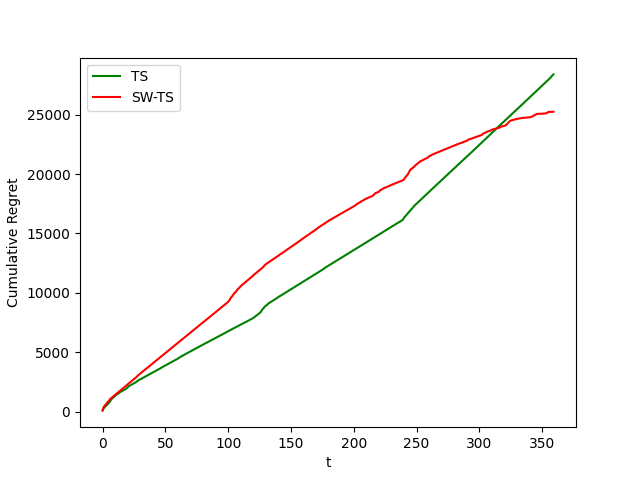
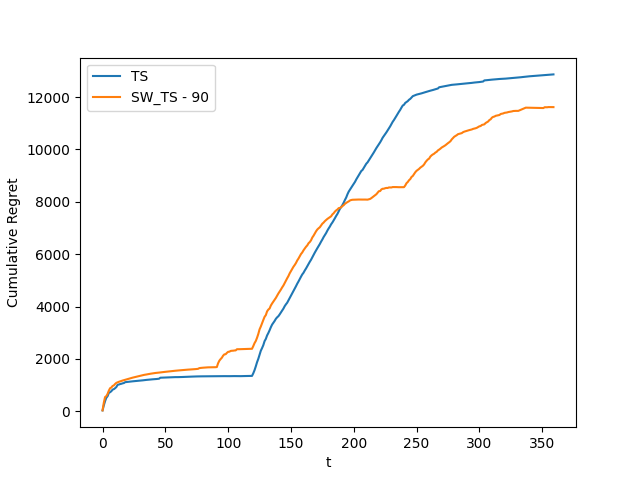
Modified version of assignment 3-4-5

diff --git a/src/assignment_3/assignment_3.py b/src/assignment_3/assignment_3.py
@@ -12,7 +12,8 @@ from src.utils.knapsack import Knapsack
 
 # Parameters initialization
 subcampaign = [0, 1, 2]
-readFile = ['../data/subcampaign1.csv', '../data/subcampaign2.csv', '../data/subcampaign3.csv']
+colors = ["r", "g", "b"]
+readFile = ['../data/subcampaign1-2.csv', '../data/subcampaign2-2.csv', '../data/subcampaign3-2.csv']
 
 # Save array to csv
 # for i in subcampaign:
@@ -35,16 +36,16 @@ for i in subcampaign:
 
 n_arms = len(data[0].columns)
 daily_budget = np.linspace(min_budget, max_budget, n_arms)
-x_values = [np.linspace(min_budget, max_budget, n_arms) for i in range(0, len(subcampaign))]
+x_values = [np.linspace(min_budget, max_budget, n_arms) for s in range(0, len(subcampaign))]
 
 # number of phases
 n_phases = 3
 # Time horizon multiple of the number of phases
 T = n_phases * 120
 # Window size proportional to the square root of T and always integer
-window_size = 100
+window_size = [90]
 # Number of experiments
-n_experiments = 5
+n_experiments = 10
 # The number of the actual abrupt phase
 phase_number = 0
 
@@ -53,20 +54,23 @@ phase_length = [T / 3, T / 3, T / 3]
 # define the budgets
 budget_matrix = [daily_budget for _ in range(0, n_phases)]
 # define 3 non stationary environment, one for each subcampaign
-environment_first_subcampaign = NonStatClickEnv(phase_length, x_values, y_value[0], sigma, budget_matrix, 1, 'r')
-environment_second_subcampaign = NonStatClickEnv(phase_length, x_values, y_value[1], sigma, budget_matrix, 2, 'b')
-environment_third_subcampaign = NonStatClickEnv(phase_length, x_values, y_value[2], sigma, budget_matrix, 3, 'g')
-env = [environment_first_subcampaign, environment_second_subcampaign, environment_third_subcampaign]
+env = []
+for s in subcampaign:
+    env.append(NonStatClickEnv(phase_length, x_values, y_value[s], sigma, budget_matrix, s + 1, colors[s]))
+# environment_first_subcampaign = NonStatClickEnv(phase_length, x_values, y_value[0], sigma, budget_matrix, 1, 'r')
+# environment_second_subcampaign = NonStatClickEnv(phase_length, x_values, y_value[1], sigma, budget_matrix, 2, 'b')
+# environment_third_subcampaign = NonStatClickEnv(phase_length, x_values, y_value[2], sigma, budget_matrix, 3, 'g')
+# env = [environment_first_subcampaign, environment_second_subcampaign, environment_third_subcampaign]
 # END
 
 collected_rewards_per_experiments = []
 sw_collected_rewards_per_experiments = []
+for w in range(0, len(window_size)):
+    sw_collected_rewards_per_experiments.append([])
 opt_per_phases = [0, 0, 0]
 
 total_clicks = 0
 sw_total_clicks = 0
-total_clicks_per_t = []
-sw_total_clicks_per_t = []
 
 # start of the experiments
 for e in tqdm(range(0, n_experiments), desc="Experiment processed", unit="exp"):
@@ -74,12 +78,17 @@ for e in tqdm(range(0, n_experiments), desc="Experiment processed", unit="exp"):
     # Initialize the environment, learner and click for each experiment
     gpts_learner = []
     sw_gpts_learner = []
+    for w in window_size:
+        sw_gpts_learner.append([])
     total_clicks_per_t = []
     sw_total_clicks_per_t = []
+    for w in range(0, len(window_size)):
+        sw_total_clicks_per_t.append([])
 
     for s in subcampaign:
         gpts_learner.append(GPTSLearner(n_arms=n_arms, arms=daily_budget))
-        sw_gpts_learner.append(GPTSLearnerSW(n_arms=n_arms, arms=daily_budget, window_size=window_size))
+        for w in range(0, len(window_size)):
+            sw_gpts_learner[w].append(GPTSLearnerSW(n_arms=n_arms, arms=daily_budget, window_size=window_size[w]))
 
     # For each t in the time horizon, run the GP_TS algorithm
     for t in range(0, T):
@@ -89,28 +98,36 @@ for e in tqdm(range(0, n_experiments), desc="Experiment processed", unit="exp"):
                 # Learning of hyperparameters before starting the algorithm
                 new_x = []
                 new_y = []
-                for i in range(0, 20):
+                for i in range(0, 10):
                     index = 0
                     for arm in daily_budget:
                         new_x.append(arm)
                         new_y.append(env[s].round_phase(index, phase_number=phase_number))
                         index += 1
                 gpts_learner[s].generate_gaussian_process(new_x, new_y, True)
-                sw_gpts_learner[s].generate_gaussian_process(new_x, new_y, True)
+                for w in range(0, len(window_size)):
+                    sw_gpts_learner[w][s].generate_gaussian_process(new_x, new_y, True)
         total_subcampaign_combination = []
         sw_total_subcampaign_combination = []
+        for w in range(0, len(window_size)):
+            sw_total_subcampaign_combination.append([])
         for s in subcampaign:
             total_subcampaign_combination.append(gpts_learner[s].pull_arm())
-            sw_total_subcampaign_combination.append(sw_gpts_learner[s].pull_arm())
+            for w in range(0, len(window_size)):
+                sw_total_subcampaign_combination[w].append(sw_gpts_learner[w][s].pull_arm())
 
         # At the and of the GP_TS algorithm of all the sub campaign, run the Knapsack optimization
         # and save the chosen arm of each sub campaign for TS and SWTS
         superarm = Knapsack(total_subcampaign_combination, daily_budget).solve()
-        sw_superarm = Knapsack(sw_total_subcampaign_combination, daily_budget).solve()
+        sw_superarm = []
+        for w in range(0, len(window_size)):
+            sw_superarm.append(Knapsack(sw_total_subcampaign_combination[w], daily_budget).solve())
 
         # At the end of each t, save the total click of the arms extracted by the Knapsack optimization
         total_clicks = 0
-        sw_total_clicks = 0
+        sw_total_clicks = []
+        for w in range(0, len(window_size)):
+            sw_total_clicks.append(0)
         for s in subcampaign:
             # TS
             reward = env[s].round(superarm[s], t)
@@ -118,22 +135,25 @@ for e in tqdm(range(0, n_experiments), desc="Experiment processed", unit="exp"):
             gpts_learner[s].update(superarm[s], reward)
 
             # SWTS
-            sw_reward = env[s].round(sw_superarm[s], t)
-            sw_total_clicks += sw_reward
-            sw_gpts_learner[s].update(sw_superarm[s], sw_reward)
+            for w in range(0, len(window_size)):
+                sw_reward = env[s].round(sw_superarm[w][s], t)
+                sw_total_clicks[w] += sw_reward
+                sw_gpts_learner[w][s].update(sw_superarm[w][s], sw_reward)
 
         total_clicks_per_t.append(total_clicks)
-        sw_total_clicks_per_t.append(sw_total_clicks)
+        for w in range(0, len(window_size)):
+            sw_total_clicks_per_t[w].append(sw_total_clicks[w])
 
     # At the end of each experiment, save the total click of each t of this experiment
     collected_rewards_per_experiments.append(total_clicks_per_t)
-    sw_collected_rewards_per_experiments.append(sw_total_clicks_per_t)
+    for w in range(0, len(window_size)):
+        sw_collected_rewards_per_experiments[w].append(sw_total_clicks_per_t[w])
     time.sleep(0.01)
 
 # Initialize the instantaneous regrets and the optimum per each round
 # computation of the optimal budget combination for each abrupt phase
 ts_instantaneous_regret = np.zeros(T)
-swts_instantaneous_regret = np.zeros(T)
+swts_instantaneous_regret = [np.zeros(T) for w in range(0, len(window_size))]
 optimum_per_round = np.zeros(T)
 
 # Calculate the optimum for each round
@@ -156,8 +176,9 @@ for i in range(0, n_phases - 1):
     optimum_per_round[times_of_change[i]: times_of_change[i + 1]] = opt_per_phases[i]
     ts_instantaneous_regret[times_of_change[i]: times_of_change[i + 1]] = opt_per_phases[i] - np.mean(
         collected_rewards_per_experiments, axis=0)[times_of_change[i]: times_of_change[i + 1]]
-    swts_instantaneous_regret[times_of_change[i]: times_of_change[i + 1]] = opt_per_phases[i] - np.mean(
-        sw_collected_rewards_per_experiments, axis=0)[times_of_change[i]: times_of_change[i + 1]]
+    for w in range(0, len(window_size)):
+        swts_instantaneous_regret[w][times_of_change[i]: times_of_change[i + 1]] = opt_per_phases[i] - np.mean(
+            sw_collected_rewards_per_experiments[w], axis=0)[times_of_change[i]: times_of_change[i + 1]]
 
 # the last iteration is done out of the cycle and manually. TODO: FIND A WAY TO PUT THESE LINES INSIDE THE CYCLE ABOVE
 optimum_per_round[times_of_change[n_phases - 1]: phase_length[n_phases - 1] + times_of_change[n_phases - 1]] = \
@@ -166,12 +187,13 @@ ts_instantaneous_regret[times_of_change[n_phases - 1]: phase_length[n_phases - 1
     = opt_per_phases[n_phases - 1] - np.mean(collected_rewards_per_experiments, axis=0)[
                                      times_of_change[n_phases - 1]: phase_length[n_phases - 1] + times_of_change[
                                          n_phases - 1]]
-swts_instantaneous_regret[
-times_of_change[n_phases - 1]: phase_length[n_phases - 1] + times_of_change[n_phases - 1]] = \
-    opt_per_phases[
-        n_phases - 1] - np.mean(
-        sw_collected_rewards_per_experiments, axis=0)[
-                        times_of_change[n_phases - 1]: phase_length[n_phases - 1] + times_of_change[n_phases - 1]]
+for w in range(0, len(window_size)):
+    swts_instantaneous_regret[w][
+    times_of_change[n_phases - 1]: phase_length[n_phases - 1] + times_of_change[n_phases - 1]] = \
+        opt_per_phases[
+            n_phases - 1] - np.mean(
+            sw_collected_rewards_per_experiments[w], axis=0)[
+                            times_of_change[n_phases - 1]: phase_length[n_phases - 1] + times_of_change[n_phases - 1]]
 
 # plot the results
 print("Opt: ")
@@ -186,10 +208,15 @@ print(swts_instantaneous_regret)
 plt.figure(1)
 plt.ylabel("Reward")
 plt.xlabel("t")
-plt.plot(np.mean(collected_rewards_per_experiments, axis=0), 'g')
-plt.plot(np.mean(sw_collected_rewards_per_experiments, axis=0), 'r')
+plt.plot(np.mean(collected_rewards_per_experiments, axis=0))
+for w in range(0, len(window_size)):
+    plt.plot(np.mean(sw_collected_rewards_per_experiments[w], axis=0))
 plt.plot(optimum_per_round, '--k')
-plt.legend(["TS", "SW-TS", "Optimum"])
+label = ["TS"]
+for w in window_size:
+    label.append("SW_TS - " + str(w))
+label.append("Optimum")
+plt.legend(label)
 img_name = "assignment_3_reward.png"
 plt.savefig(os.path.join(img_path, img_name))
 plt.show()
@@ -197,9 +224,13 @@ plt.show()
 plt.figure(2)
 plt.ylabel("Cumulative Regret")
 plt.xlabel("t")
-plt.plot(np.cumsum(ts_instantaneous_regret), 'g')
-plt.plot(np.cumsum(swts_instantaneous_regret), 'r')
-plt.legend(["TS", "SW-TS"])
+plt.plot(np.cumsum(ts_instantaneous_regret))
+for w in range(0, len(window_size)):
+    plt.plot(np.cumsum(swts_instantaneous_regret[w]))
+label = ["TS"]
+for w in window_size:
+    label.append("SW_TS - " + str(w))
+plt.legend(label)
 img_name = "assignment_3_cum_regret.png"
 plt.savefig(os.path.join(img_path, img_name))
 plt.show()

diff --git a/src/assignment_4/assignment_4.py b/src/assignment_4/assignment_4.py
@@ -4,6 +4,7 @@ import numpy as np
 import matplotlib.pyplot as plt
 from scipy import interpolate
 import pandas as pd
+from tqdm import tqdm
 
 from src.assignment_4.greedy_learner import GreedyLearner
 from src.assignment_4.reward_function import rewards
@@ -13,7 +14,7 @@ from src.utils.constants import subcampaign_names, img_path
 
 T = 300
 
-n_experiments = 100
+n_experiments = 10
 
 min_price = 0.0
 max_price = 100.0
@@ -44,7 +45,7 @@ for subcampaign in subcampaigns:
     x = np.linspace(min_price, max_price, 100)
     y = [demand_functions[subcampaign](x[i]) for i in range(0, 100)]
     plt.plot(x, y, 'g')
-    plt.legend(["Subcampaign " + str(subcampaign+1) + " " + subcampaign_names[subcampaign]])
+    plt.legend(["Subcampaign " + str(subcampaign + 1) + " " + subcampaign_names[subcampaign]])
     img_name = "demand_curve_" + str(subcampaign + 1) + ".png"
     plt.savefig(os.path.join(img_path, img_name))
     plt.show()
@@ -59,21 +60,23 @@ for arm in range(0, n_arms):
 
 rewards_normalized = []
 opt = np.max(aggregated_rewards)
-opt_normalized = np.divide(opt, opt)
+print(opt)
+opt_normalized = np.divide(opt, max_price)
+print(opt_normalized)
 opt_per_campaign = [np.max(rewards[i]) for i in subcampaigns]
 
 for campaign in subcampaigns:
-    rewards_normalized.append(np.divide(rewards[campaign], opt_per_campaign[campaign]))
+    rewards_normalized.append(np.divide(rewards[campaign], max_price))
 environments = []
 
 ts_rewards_per_experiment = []
 gr_rewards_per_experiment = []
 
-for subcampaign in range(len(subcampaigns)):
-    ts_rewards_per_experiment.append([])
-    gr_rewards_per_experiment.append([])
+# for subcampaign in range(len(subcampaigns)):
+# # ts_rewards_per_experiment.append([])
+# # gr_rewards_per_experiment.append([])
 
-for e in range(0, n_experiments):
+for e in tqdm(range(0, n_experiments), desc="Experiment processed", unit="exp"):
 
     ts_learner = TSLearner(n_arms=n_arms,
                            probabilities=probabilities_vector,
@@ -105,32 +108,63 @@ for e in range(0, n_experiments):
             reward_per_round.append(environments[subcampaign].round(pulled_arm))
         gr_learner.update(pulled_arm, reward_per_round)
 
-    for subcampaign in range(len(subcampaigns)):
-        ts_rewards_per_experiment[subcampaign] \
-            .append(np.average(a=ts_learner.collected_rewards, axis=0, weights=probabilities_vector))
-        gr_rewards_per_experiment[subcampaign] \
-            .append(np.average(a=gr_learner.collected_rewards, axis=0, weights=probabilities_vector))
+    ts_rewards_per_experiment.append(
+        np.average(a=ts_learner.collected_rewards, axis=0, weights=probabilities_vector))
+    gr_rewards_per_experiment.append(
+        np.average(a=gr_learner.collected_rewards, axis=0, weights=probabilities_vector))
+    print(ts_rewards_per_experiment)
 
-fig, axs = plt.subplots(3, 2, figsize=(14, 8))
-for subcampaign in range(len(subcampaigns)):
-    # axs[subcampaign, 0].figure("subcampaign" + str(subcampaign) + ".1")
-    axs[subcampaign, 0].plot(
-        np.cumsum(np.mean(np.array(opt_normalized) - ts_rewards_per_experiment[subcampaign], axis=0)), 'r')
-    axs[subcampaign, 0].plot(
-        np.cumsum(np.mean(np.array(opt_normalized) - gr_rewards_per_experiment[subcampaign], axis=0)), 'g')
-    axs[subcampaign, 0].legend(["TS", "Greedy"])
+# fig, axs = plt.subplots(3, 2, figsize=(14, 8))
+# for subcampaign in range(len(subcampaigns)):
+#     # axs[subcampaign, 0].figure("subcampaign" + str(subcampaign) + ".1")
+#     axs[subcampaign, 0].plot(
+#         np.cumsum(np.mean(np.array(opt_normalized) - ts_rewards_per_experiment[subcampaign], axis=0)), 'r')
+#     axs[subcampaign, 0].plot(
+#         np.cumsum(np.mean(np.array(opt_normalized) - gr_rewards_per_experiment[subcampaign], axis=0)), 'g')
+#     axs[subcampaign, 0].legend(["TS", "Greedy"])
+#
+#     # axs.figure("subcampaign" + str(subcampaign) + ".2")
+#     axs[subcampaign, 1].plot((np.mean(np.array(opt_normalized) - ts_rewards_per_experiment[subcampaign], axis=0)), 'r')
+#     axs[subcampaign, 1].plot((np.mean(np.array(opt_normalized) - gr_rewards_per_experiment[subcampaign], axis=0)), 'g')
+#     axs[subcampaign, 1].legend(["TS", "Greedy"])
+#
+# for ax in axs.flat:
+#     if list(axs.flat).index(ax) % 2 == 0:
+#         ax.set(xlabel='t', ylabel='CumRegret')
+#     else:
+#         ax.set(xlabel='t', ylabel='Regret')
+# ax.label_outer()
 
-    # axs.figure("subcampaign" + str(subcampaign) + ".2")
-    axs[subcampaign, 1].plot((np.mean(np.array(opt_normalized) - ts_rewards_per_experiment[subcampaign], axis=0)), 'r')
-    axs[subcampaign, 1].plot((np.mean(np.array(opt_normalized) - gr_rewards_per_experiment[subcampaign], axis=0)), 'g')
-    axs[subcampaign, 1].legend(["TS", "Greedy"])
+# plt.figure(0)
+# plt.ylabel("Reward")
+# plt.xlabel("t")
+# print(ts_rewards_per_experiment[0])
+# total_rew = []
+# for i in range(0, len(np.cumsum(np.mean(ts_rewards_per_experiment[0], axis=0)))):
+#     total_rew.append(0)
+# for s in subcampaigns:
+#     total_rew += np.cumsum(np.mean(ts_rewards_per_experiment[s], axis=0))
+# print(total_rew)
+# plt.plot(total_rew, 'g')
+# plt.plot(opt, '--k')
+# plt.legend(["TS", "Optimum"])
+#
+# img_name = "assignment_4_rewards.png"
+# plt.savefig(os.path.join(img_path, img_name))
+# plt.show()
 
-for ax in axs.flat:
-    if list(axs.flat).index(ax) % 2 == 0:
-        ax.set(xlabel='t', ylabel='CumRegret')
-    else:
-        ax.set(xlabel='t', ylabel='Regret')
-    # ax.label_outer()
+plt.figure(1)
+plt.ylabel("Regret")
+plt.xlabel("t")
+total_reg = np.cumsum(np.mean(np.array(opt_normalized) - ts_rewards_per_experiment, axis=0))
+# for i in range(0, len(np.cumsum(np.mean(np.array(opt) - ts_rewards_per_experiment[0], axis=0)))):
+#     total_reg.append(0)
+# for s in subcampaigns:
+#     total_reg += np.cumsum(np.mean(np.array(opt) - ts_rewards_per_experiment[s], axis=0) * probabilities_vector[s])
+print(total_reg)
+plt.plot(total_reg, 'g')
+plt.legend(["TS"])
+
 img_name = "assignment_4_regrets.png"
 plt.savefig(os.path.join(img_path, img_name))
 plt.show()

diff --git a/src/assignment_5/assignment_5.py b/src/assignment_5/assignment_5.py
@@ -12,12 +12,12 @@ from scipy import interpolate
 from src.utils.constants import img_path
 
 T = 18250
-n_experiment = 100
+n_experiment = 20
 min_price = 0.0
-max_price = 1.00
+max_price = 1.0
 
 user_class = [0, 1, 2]
-user_class_probabilities = [2/10, 2/5, 2/5]
+user_class_probabilities = [2 / 10, 2 / 5, 2 / 5]
 
 readFile = '../data/pricing.csv'
 
@@ -71,14 +71,15 @@ np.set_printoptions(precision=3)
 print(compute_optimum(user_class, user_class_probabilities, rewards))
 print("Rewards")
 np.set_printoptions(precision=3)
-print(ts_rewards_per_experiment)
+print(np.mean(ts_rewards_per_experiment, axis=0) * 100)
 print("Regret")
 np.set_printoptions(precision=3)
 print(ts_instantaneous_regret)
 plt.figure(0)
 plt.ylabel("Reward")
 plt.xlabel("t")
-plt.plot(np.mean(ts_rewards_per_experiment, axis=0), 'g')
+print(np.cumsum(np.mean(ts_rewards_per_experiment, axis=0)))
+plt.plot(np.cumsum(np.mean(ts_rewards_per_experiment, axis=0)), 'g')
 plt.plot(opt, '--k')
 plt.legend(["TS", "Optimum"])
 img_name = "assignment_5_reward.png"
